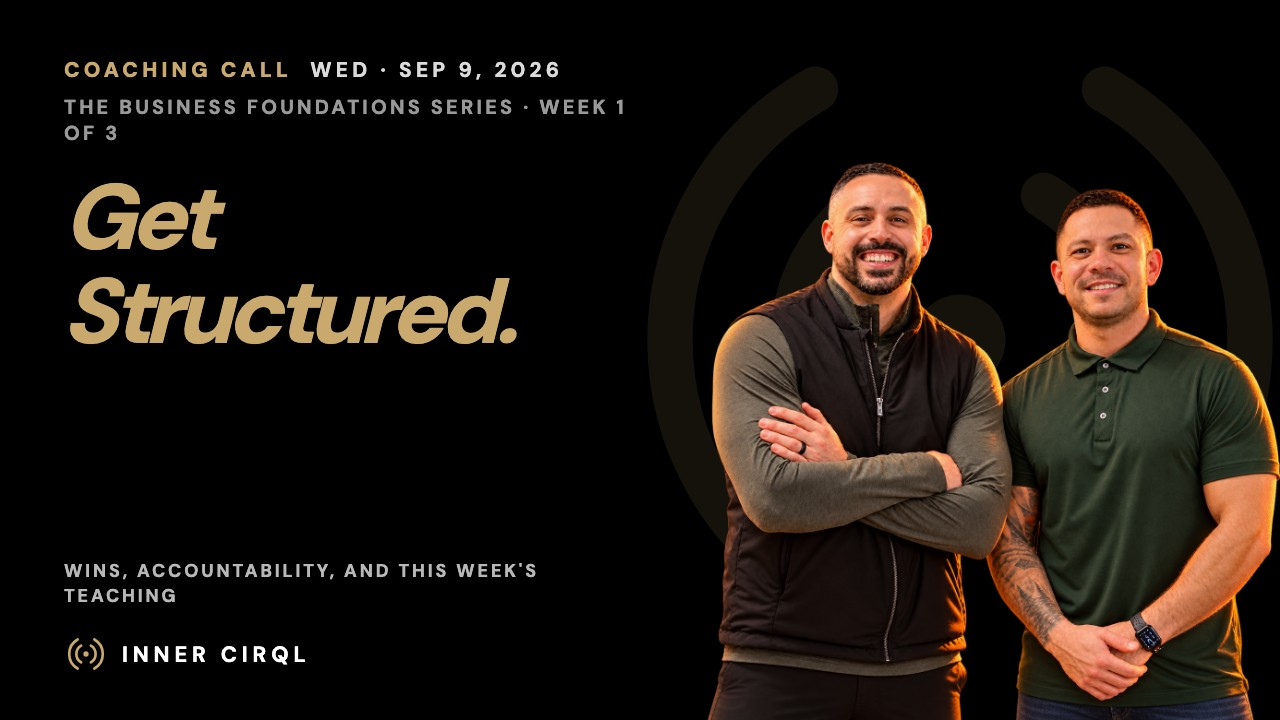
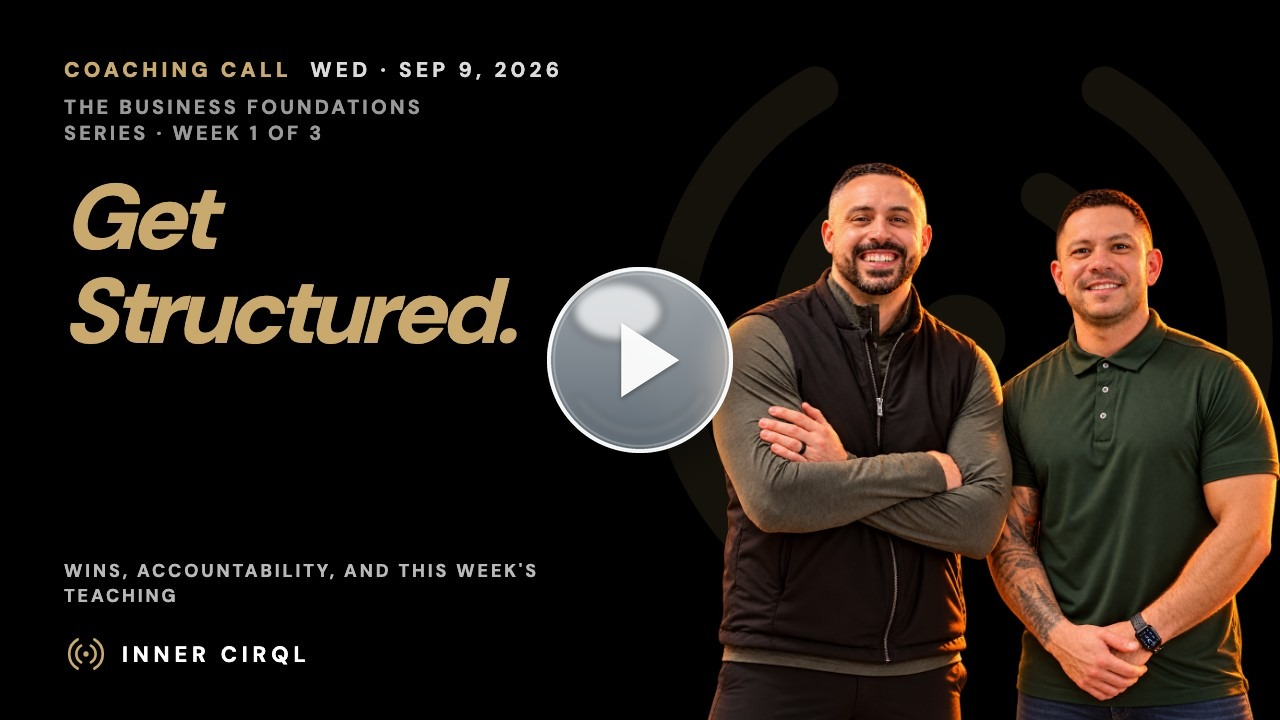
Training: retitle Sep 9 coaching call (The Business Foundations Series · Week 1 · Get Structured.) + thumbnail

diff --git a/training/index.html b/training/index.html
@@ -94,6 +94,26 @@ window.LIBRARY = {
   ],
   "items": [
     {
+      "id": "v-2026-09-09",
+      "date": "2026-09-09",
+      "dateLabel": "September 9, 2026",
+      "series": "business-foundations",
+      "week": 1,
+      "name": "Get Structured.",
+      "title": "The Business Foundations Series · Week 1 · Get Structured.",
+      "headline": [
+        "Get",
+        "Structured."
+      ],
+      "sub": "The Business Foundations Series · Week 1 of 3",
+      "desc": "The Business Foundations Series, Week 1: Get Structured. LLC, EIN, and the S-corp question. Wins, accountability, and the teaching segment, edited replay.",
+      "href": "https://coach.theinnercirql.com/2026-09-09/",
+      "pdf": null,
+      "slides": null,
+      "embed": "https://www.youtube.com/embed/C9o7frIeVIU?rel=0&modestbranding=1",
+      "thumb": "/assets/thumbs/sep-9-call.jpg?v=29920128"
+    },
+    {
       "id": "v-2026-09-02",
       "date": "2026-09-02",
       "dateLabel": "September 2, 2026",
@@ -532,26 +552,6 @@ window.LIBRARY = {
       "slides": null,
       "embed": "https://www.youtube.com/embed/1pwJC3rJgkw?rel=0&modestbranding=1",
       "thumb": "/assets/thumbs/sep-23-call.jpg?v=1"
-    },
-    {
-      "id": "v-2026-09-09",
-      "date": "2026-09-09",
-      "dateLabel": "September 9, 2026",
-      "series": "business-foundations",
-      "week": 1,
-      "name": "Get Structured.",
-      "title": "The Business Foundations Series · Week 1 · Get Structured.",
-      "headline": [
-        "Get",
-        "Structured."
-      ],
-      "sub": "The Business Foundations Series · Week 1 of 3",
-      "desc": "The Business Foundations Series, Week 1: Get Structured. LLC, EIN, and the S-corp question. Wins, accountability, and the teaching segment, edited replay.",
-      "href": "https://coach.theinnercirql.com/2026-09-09/",
-      "pdf": null,
-      "slides": null,
-      "embed": "https://www.youtube.com/embed/C9o7frIeVIU?rel=0&modestbranding=1",
-      "thumb": "/assets/thumbs/sep-9-call.jpg?v=1"
     },
     {
       "id": "t-become-a-listing-magnet",
